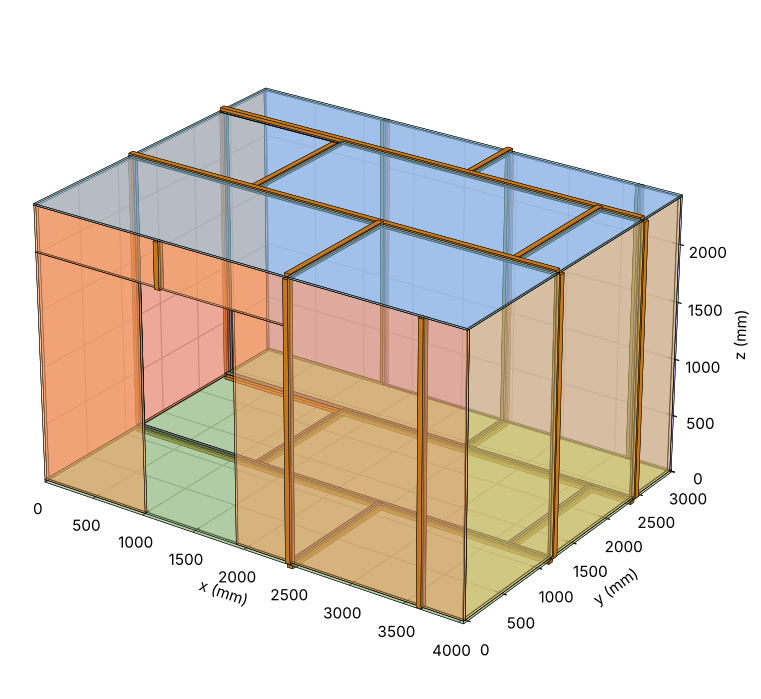
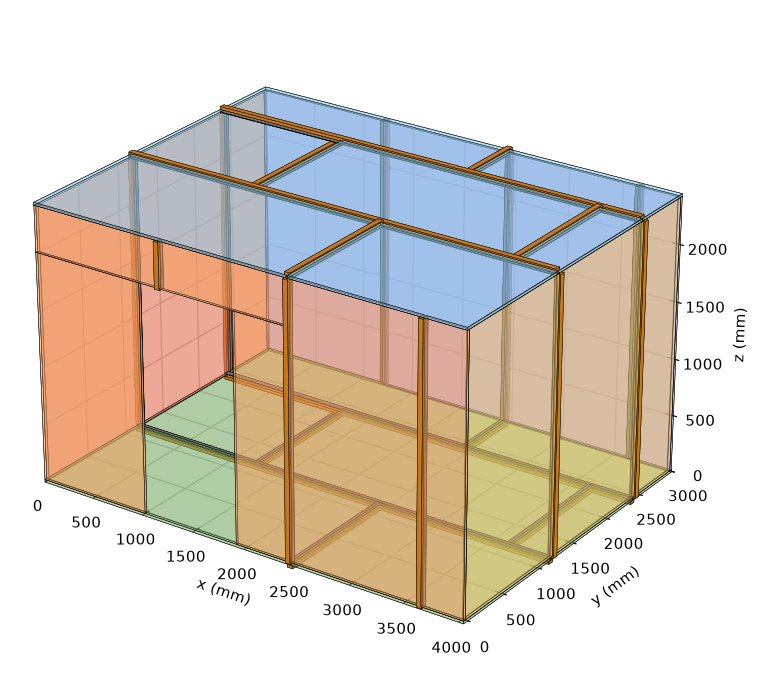
Example config: leave the ceiling thickness override blank
The example (example_config.json, --example and the GUI's starting config) no longer
overrides the ceiling to 12 mm, so all surfaces use the 22 mm board. External height
becomes 2446.8 mm; sheet and hat & flat totals are unchanged.

Golden fixtures regenerated from the original single-file code, examples/ outputs and
README images refreshed.

diff --git a/tests/test_config.py b/tests/test_config.py
@@ -109,7 +109,7 @@ def test_summary_numbers_for_the_example():
     assert plan["sheets_for_cuts"] == 18 and plan["total_sheets"] == 22
     assert plan["total_hf"] / 1000 == pytest.approx(46.72, abs=0.005)
     assert plan["bar_count"] == 20
-    assert tuple(round(v, 1) for v in plan["external"]) == (4046.8, 3046.8, 2436.8)
+    assert tuple(round(v, 1) for v in plan["external"]) == (4046.8, 3046.8, 2446.8)
 
 
 def test_core_does_not_print(capsys):

diff --git a/tests/test_golden.py b/tests/test_golden.py
@@ -59,6 +59,6 @@ def test_dxf_content_identical(cli_run):
 def test_golden_numbers(cli_run):
     _, stdout = cli_run
     assert "Internal : 4000 x 3000 x 2400 mm" in stdout
-    assert "External : 4046.8 x 3046.8 x 2436.8 mm" in stdout
+    assert "External : 4046.8 x 3046.8 x 2446.8 mm" in stdout
     assert "4 full + 26 cut pieces from 18 sheets = 22 sheets" in stdout
     assert "46.72 m each, 20 x 3000 mm bars each" in stdout

diff --git a/chamber/core.py b/chamber/core.py
@@ -22,7 +22,7 @@ EXAMPLE = {
     "sheet": {"length": 2440, "width": 1220},
     "board_thickness": 22,
     "steel_thickness": 0.7,
-    "thickness_override": {"ceiling": 12},
+    "thickness_override": {},
     "hat_flat": {
         "hat_width": 50, "hat_depth": 25, "flat_width": 50,
         "stock_length": 3000, "end_clearance": 0, "screw_pitch": 150

diff --git a/README.md b/README.md
@@ -94,7 +94,7 @@ A config that cannot be built (a door that does not fit, a negative size, ...) g
   "sheet": {"length": 2440, "width": 1220},
   "board_thickness": 22,
   "steel_thickness": 0.7,
-  "thickness_override": {"ceiling": 12},
+  "thickness_override": {},
   "hat_flat": {
     "hat_width": 50, "hat_depth": 25, "flat_width": 50,
     "stock_length": 3000, "end_clearance": 0, "screw_pitch": 150
